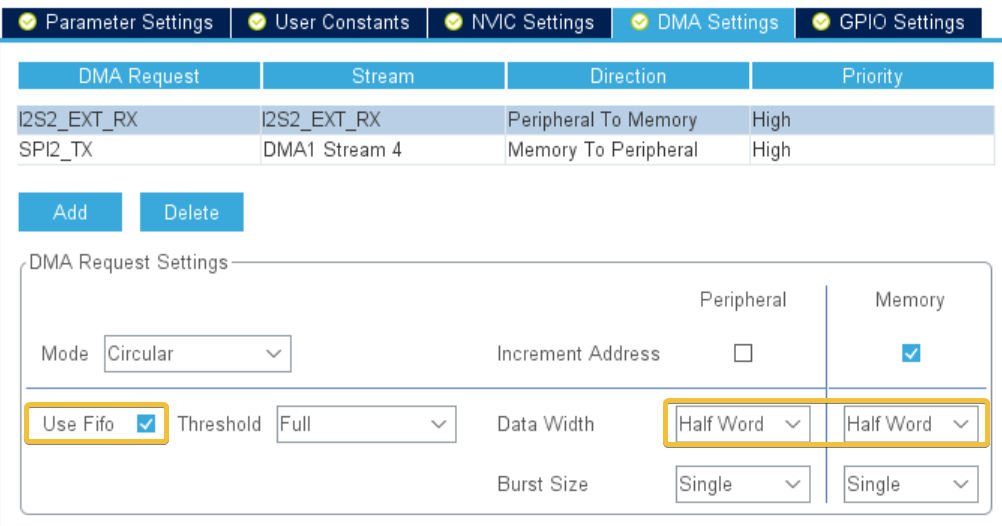
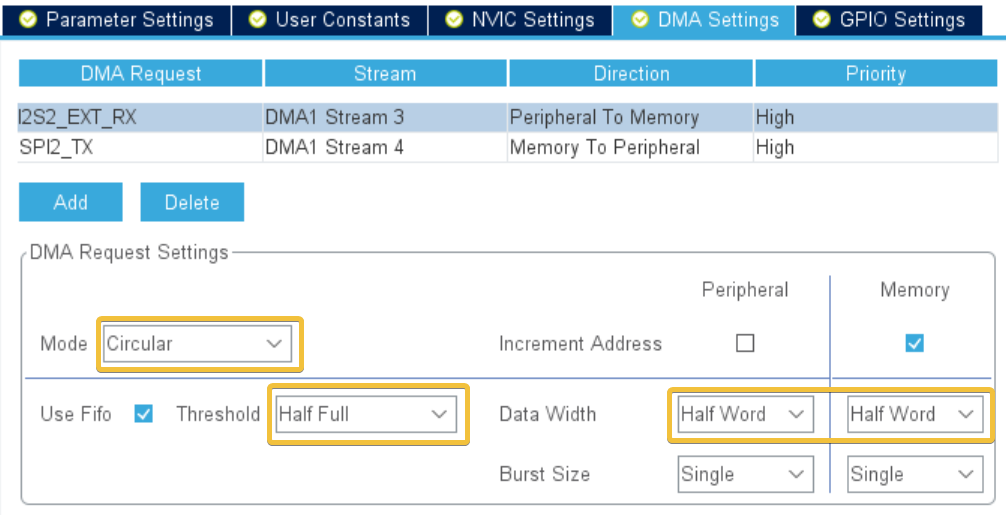
fixed some Todos

diff --git a/sections/4_2_6_AdaptiveFIR.tex b/sections/4_2_6_AdaptiveFIR.tex
@@ -3,7 +3,7 @@
 
 Damit auf dem STM32 dynamisch ein FIR Tiefpassfilter generiert werden kann, ist die Helperlibrary \texttt{adaptive\_fir.c} im Projektordner dabei.
 Die Library enthält eine Funktion, die aus für eine gewünschte Grenzfrequenz die gewünschte Anzahl Koeffizienten liefert.
-Dabei wird die \textit{Windowing-Methode}, dessen Funktionsweise hier kurz erklärt wird, verwendet.
+Dabei wird die \textit{Windowing-Methode} \cite{FIR-Windowing}, dessen Funktionsweise hier kurz erklärt wird, verwendet.
 
 \paragraph{Tiefpassfilter mit der Windowing Methode erzeugen}
 
@@ -13,14 +13,14 @@ Wird $rect()$-Funktion Laplace-Transformiert, hat sie im Zeitbereich die Funktio
 \begin{figure}[H]
 	\centering
 	\includegraphics[width=0.4\linewidth]{lowpass_ideal}
-	\caption{Amplitudengang eines idealen Tiefpassfilters mit Grenzfrequenz $f_t$}
+	\caption{Amplitudengang eines idealen Tiefpassfilters mit Grenzfrequenz $f_t$ \cite{FIR-Windowing}}
 	\label{pic:lowpass_ideal}
 \end{figure}
 
 \begin{figure}[H]
 	\centering
 	\includegraphics[width=0.4\linewidth]{lowpass_sinc}
-	\caption{Die Impulsantwort eines idealen Tiefpassfilters folgt der Funktion $\frac{\sin{x}}{x}$}
+	\caption{Die Impulsantwort eines idealen Tiefpassfilters folgt der Funktion $\frac{\sin{x}}{x}$ \cite{FIR-Windowing}}
 	\label{pic:lowpass_sinc}
 \end{figure}
 
@@ -42,13 +42,18 @@ fir1(num_taps, 1000.0f/48000.0f, new_coeffs);
 \end{lstlisting}
 
 
-Nachfolgend der äquivalente MATLAB Befehl.
+Nachfolgend der äquivalente MATLAB Befehl mit zusätzlichen Darstellungsformen.
 
 
 
 \begin{lstlisting}[language=matlab]
 num_taps = 19;
 new_coeffs = fir1(num_taps-1, 1000/48000)
+% Koeffizienten darstellen
+stem(new_coeffs)
+grid on
+% Uebertragungsfunktion anzeigen
+freqz(new_coeffs)
 \end{lstlisting}
 
 

diff --git a/sections/4_2_5_FIRFilter.tex b/sections/4_2_5_FIRFilter.tex
@@ -26,9 +26,10 @@ Für die Beispielimplementation des FIR Filters wurde für das Mono-Filter das T
 Eine Kopie des Beispielcodes ist im Projekt unter \texttt{./Drivers/CMSIS/DSP/Examples/ARM/arm\_fir\_example/arm\_fir\_example\_f32.c} enthalten.
 Die Dokumentation des Filters bzw. der gesamten CMSIS/DSP Library ist auf der Webseite von ARM \cite{cmsis-doc-arm} oder Keil \cite{cmsis-doc-keil} abrufbar.
 
-Für das Stereofilter wurde mit folgendem MATLAB-Befehl die 11 Filterkoeffizienten berechnet. Das Filter hat eine 3dB-Grenzfrequenz bei $6/24 \pi rad/Sample$.
+Für das Stereofilter wurde mit dem \texttt{fir1} MATLAB-Befehl die 11 Filterkoeffizienten berechnet. Das Filter hat eine 3dB-Grenzfrequenz bei $6/24 \pi rad/Sample$.
 
-\todo{SB - fir1 Funktionsparameter erklären}
+Die MATLAB-Funktion \texttt{fir1} arbeitet mit der \textit{Windowing-Methode} \cite{FIR-Windowing}, die nächer im Abschnitt \ref{sec:LibFIRAdaptive} beschrieben wird.
+Dabei steht das erste Argument (hier: 10) für den Filtergrad oder $Anzahl Koeffizienten\ -\ 1$. Der zweite Parameter ist die auf die Samplingfrequenz normierte Grenzfrequenz.
 
 \begin{lstlisting}[language=matlab]
 fir1(10, 6/24)

diff --git a/sections/4_3_5_DMA.tex b/sections/4_3_5_DMA.tex
@@ -2,6 +2,7 @@
 \label{sec:CubeMXDMA}
 
 Die I\textsuperscript{2}S Schnittstellen unterstützen den automatischen Datentransfer über den DMA Controller. In der Abbildung \ref{pic:CubeMX_I2S_DMA} ist die Konfiguration für den Peripheral to Memory Kanal ersichtlich. Der Memory to Peripheral Kanal wird mit den selben Einstellungen konfiguriert. \texttt{Half Word} bedeutet eine Datenbreite von 16 Bit, was der bei der I\textsuperscript{2}S2 Schnittstelle (Abschnitt \ref{sec:CubeMXI2S}) eingestellten Datenwortbreite entspricht.
+Ausserdem wird der Threshold auf \texttt{Half Full} gesetzt. Dies bewirkt, dass ein DMA Half-Transfer Interrupt ausgelöst wird, wenn der Buffer zur jeweils zur Hälfte voll ist - siehe Abschnitt \ref{sec:Dataflow}.
 
 \begin{figure}[H]
 	\centering
@@ -10,4 +11,3 @@ Die I\textsuperscript{2}S Schnittstellen unterstützen den automatischen Datentr
 	\label{pic:CubeMX_I2S_DMA}
 \end{figure}
 
-\todo{SB - Bild aktualisieren Threshold = Half Full}

diff --git a/sections/4_3_1_Encoder.tex b/sections/4_3_1_Encoder.tex
@@ -25,7 +25,8 @@ Die nachfolgende Tabelle listet einige wichtige Parameter und deren Einfluss.
 		Counter Mode     & Up | Down      & Zählrichtung in Abhängigkeit der Drehrichung  \\ \hline
 		Counter Period   &                & maximaler Zählerwert (z.b. uint16\_t)         \\ \hline
 		Encoder Mode     & T1 | T2        & \begin{tabular}[c]{@{}l@{}}Triggerfokus auf CH1 oder CH2 oder beides.
-			\\ Wenn beide aktiviert sind, zählt der Timer doppelt.\end{tabular} \\ \hline
+			\\ Wenn beide aktiviert sind, zählt der Timer mit \\
+			doppelter Geschwindigkeit\end{tabular} \\ \hline
 	\end{tabular}
 \end{table}
 
